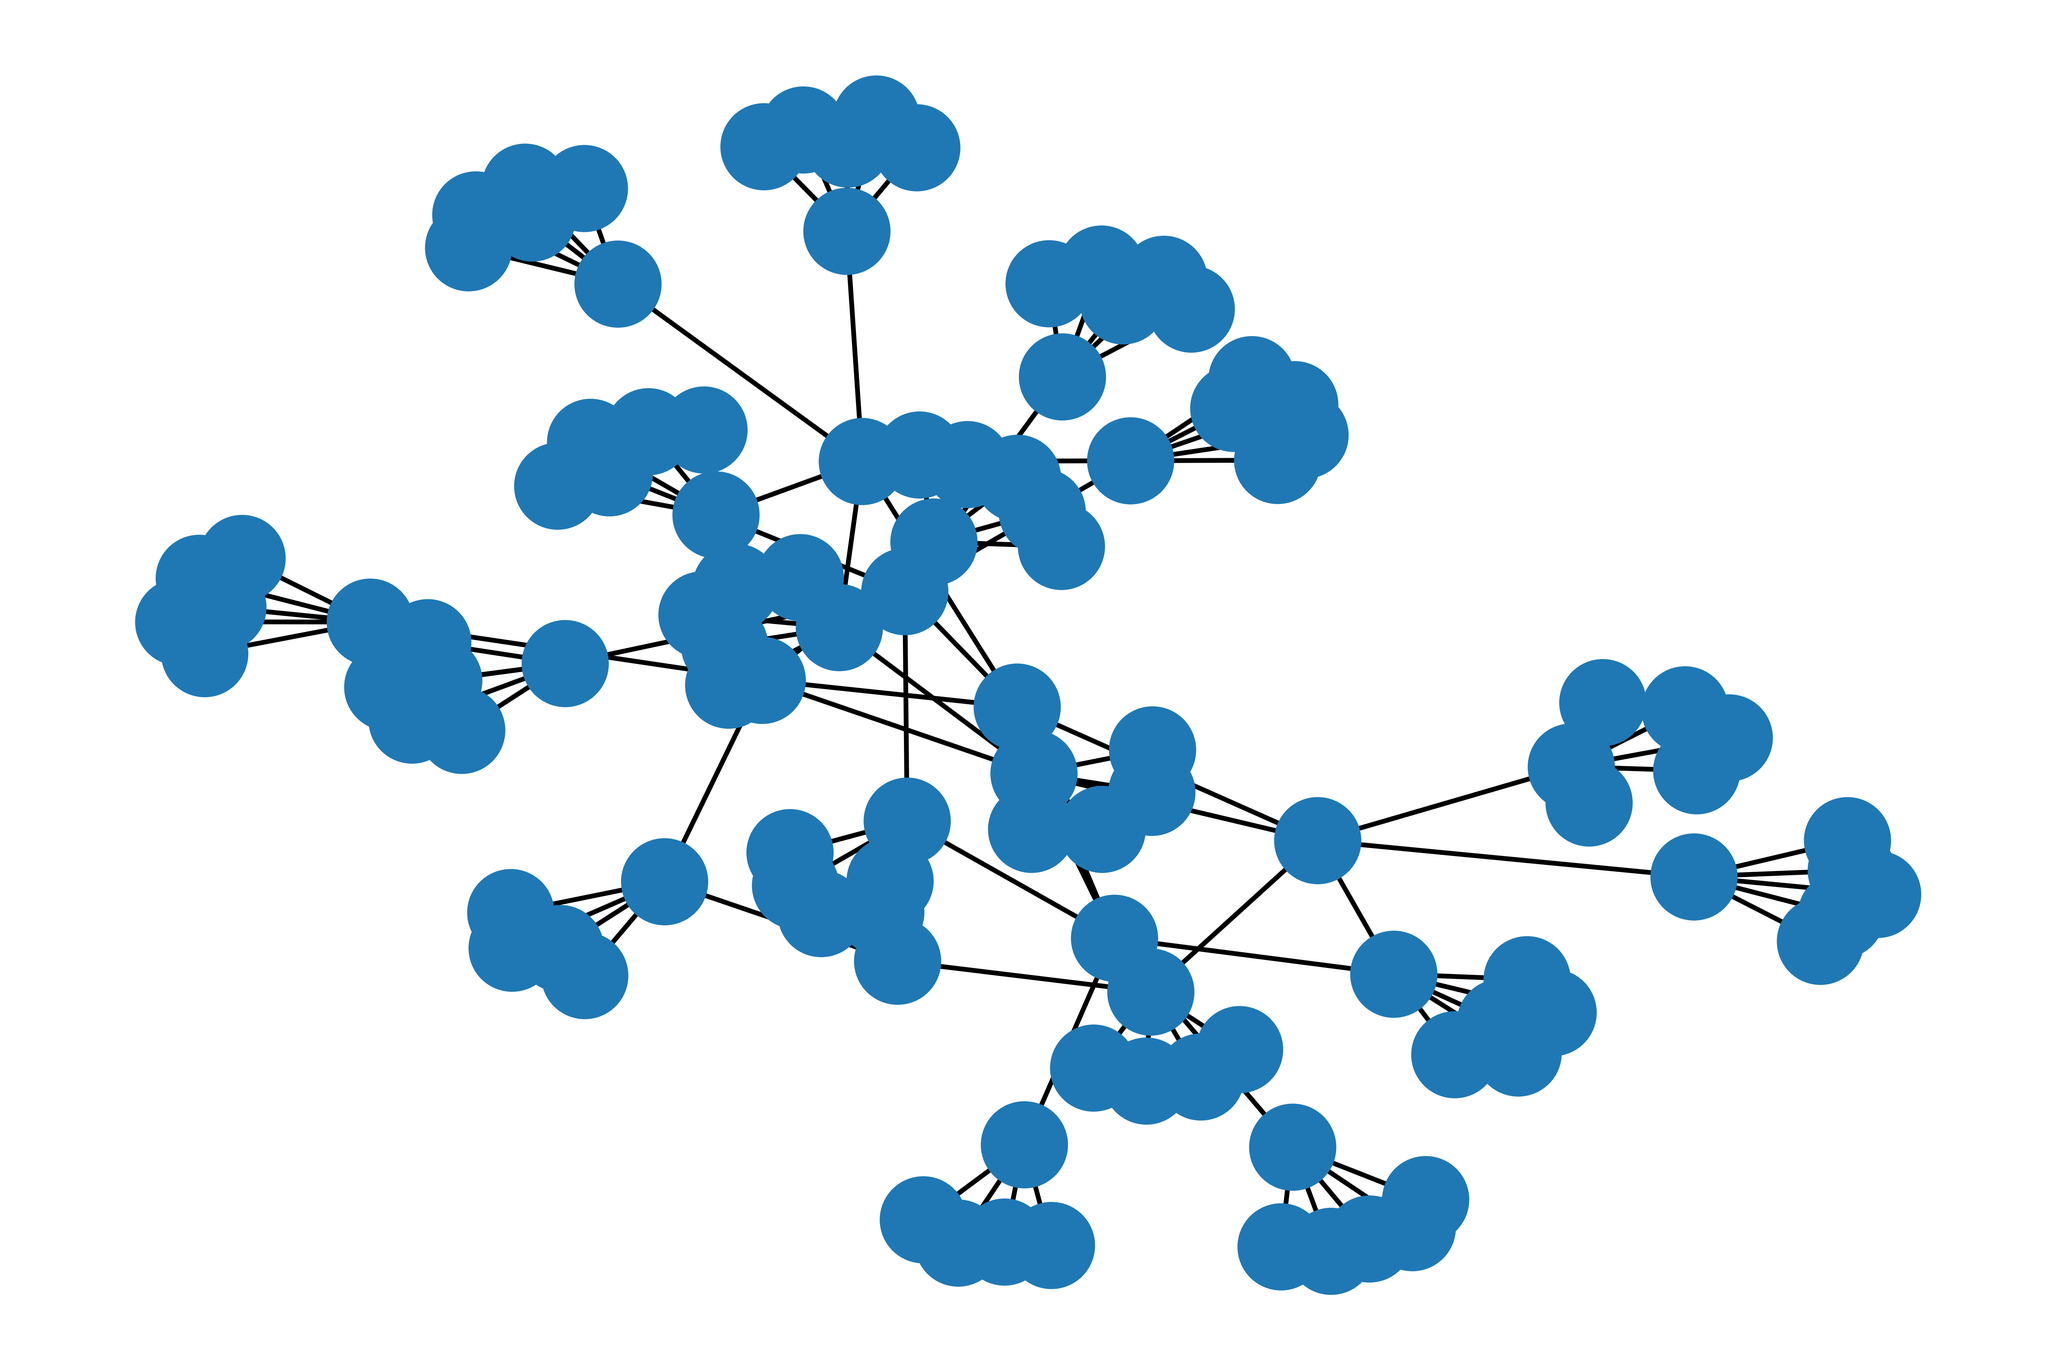
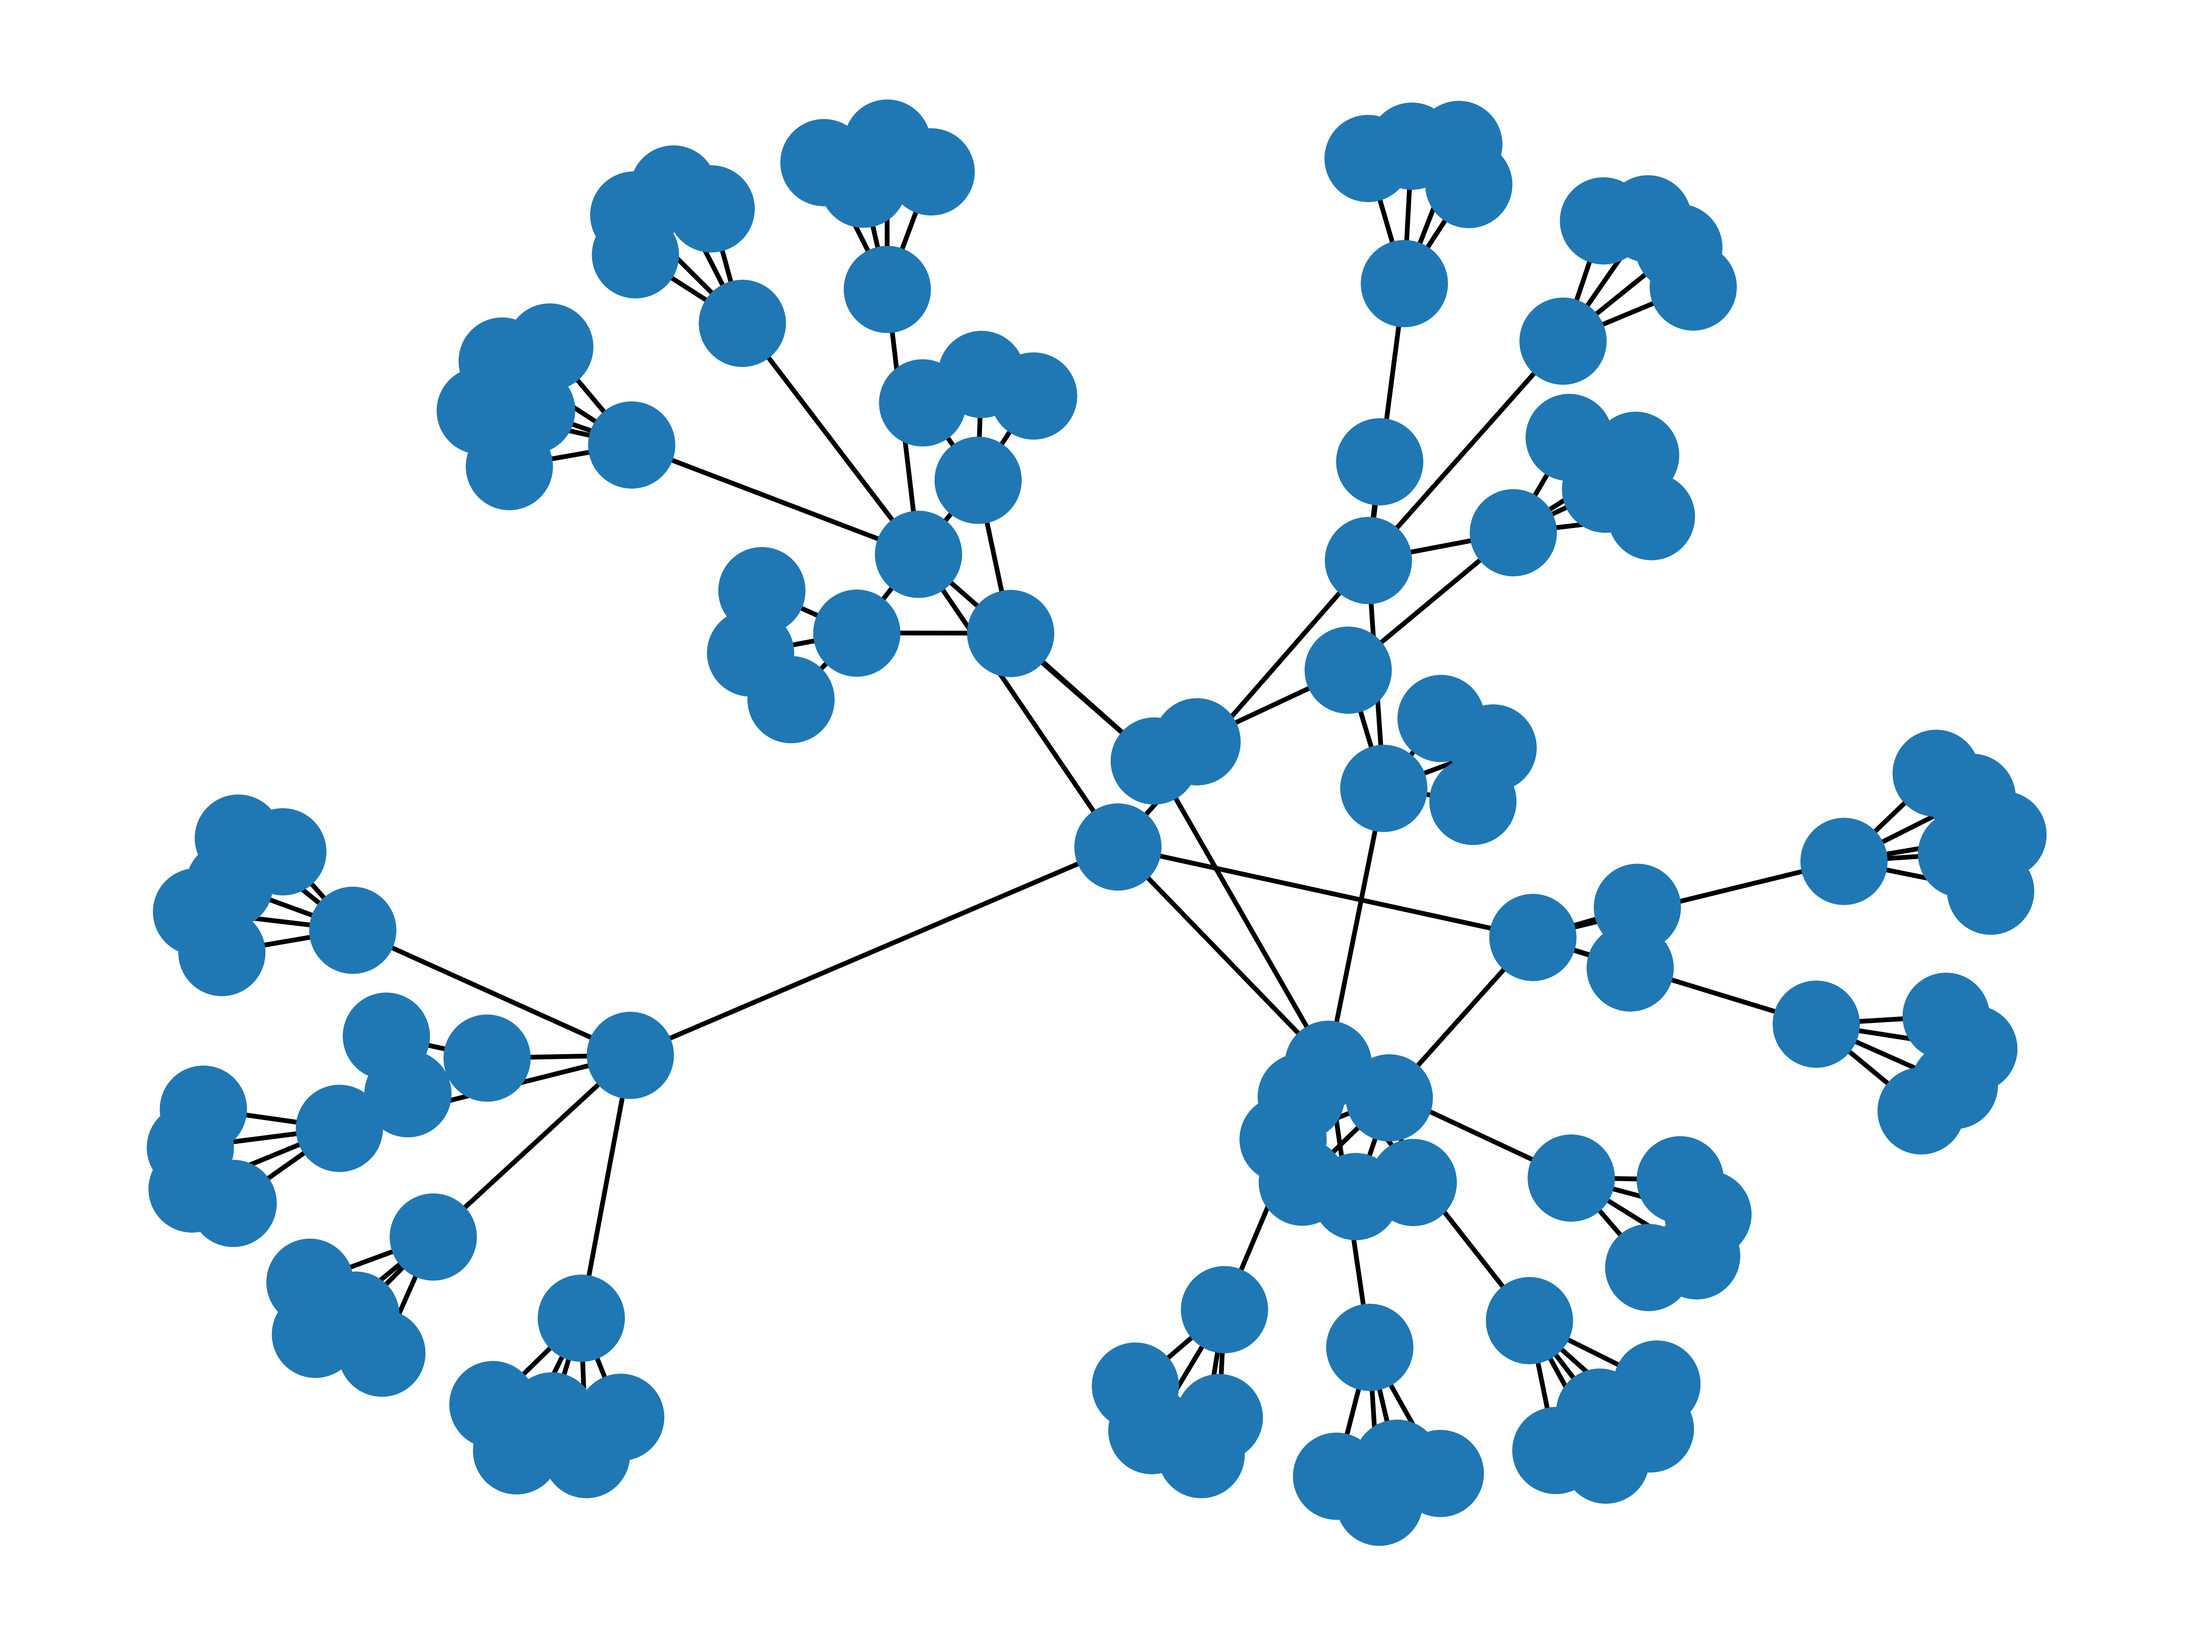
Moved code into a python file for submission, updated the graph. Fixed bug with finding reciprocals

Changed region(s): [[0.0623, 0.0312, 0.935, 0.9688], [0.8727, 0.6875, 0.9038, 0.7188]]

diff --git a/notebooks/assignment2.py b/notebooks/assignment2.py
@@ -1,0 +1,156 @@
+from audioop import avg
+import twitter
+import cookbook as cb
+import networkx as nx
+import matplotlib.pyplot as plt
+
+def make_twitter():
+  CONSUMER_KEY = 'fjRSNYpRexhGGEBRZ6wDtR46W' #API key
+  CONSUMER_SECRET = 'TsN5f7qN6SHUFliBptqqu4FFh3YLx6tisldkvFx5C065HiwaoE'#secret api key
+  OAUTH_TOKEN = '804135069988306947-WoNcUYrqIJsfcdKegraukBv3oF4hsKA' #OAUTH1 token
+  OAUTH_TOKEN_SECRET = 'x3O77abe4vDaQ40ad8h5SforRGoLY7G9kBjOiRuTBrnEj' #OAUTH1 secret token
+
+  username = "edmundyu1001"
+
+  """
+  Connection to twitter API, used in cell 1 of the twitter cookbook, added my credentials and username here
+  """
+  auth = twitter.oauth.OAuth(OAUTH_TOKEN, OAUTH_TOKEN_SECRET, CONSUMER_KEY, CONSUMER_SECRET)
+
+  twitter_api = twitter.Twitter(auth=auth)
+  return twitter_api
+
+def crawl(twitter_api, username):
+  """
+  This function finds the five most popular reciprocal friends of the user.
+  Takes list of friend IDS and follower IDS
+  Uses set notation from slides to get the reciprocal friends, then convert to a list
+  Ranks the reciprocal friends based on number of followers and returns list of 5 reciprocal friends with the most followers.
+  All functions called using cb.foobar are from the cookbook which is imported as cb
+  """
+
+  def find_five_pop_reciprocals(friends_ids, followers_ids):
+      reciprocal_friends = set(friends_ids) & set(followers_ids)
+      l_recip = list(reciprocal_friends)
+
+      first_100 = l_recip[:100]
+
+      followers_with_count = []
+
+      i = 0
+      five_most_popular = []
+      while i < len(l_recip):
+          friend_batch = l_recip[i:i+100]
+          print("friend_batch: ", len(friend_batch))
+          response = cb.get_user_profile(twitter_api, user_ids=friend_batch)
+          for r in response:
+              followers_with_count.append((response[r]["id"],response[r]["followers_count"]))
+          i += 100
+      #sort by usercount and do so in decending order
+      followers_with_count.sort(key=lambda x: x[1],reverse=True)
+
+      #grab only the five first followers
+      top_five = followers_with_count[:5]
+      print("top five: ", top_five)
+      #turn into a list for usability
+      fmp_user_ids = [i[0] for i in top_five]
+
+      return fmp_user_ids
+
+  #Creating graph using networkx, this will be the social media graph of the reciprocal friends
+  G = nx.Graph()
+  ids = [165035772]
+
+  key = 165035772
+
+  G.add_nodes_from(ids)
+
+  """
+  Grabbing the followers and friends of the initial user
+  """
+  jfk = cb.make_twitter_request(twitter_api.followers.ids, screen_name=username, count = 5000)
+  iop = cb.make_twitter_request(twitter_api.friends.ids, screen_name=username, count=5000)
+
+  followers = jfk["ids"]
+  friends = iop["ids"]
+
+  # find the 5 most popular reciprocals of the user
+  top_five_recip = find_five_pop_reciprocals(friends, followers)
+
+  # print("top five recip: ", top_five_recip)
+
+
+  # ad the top five reciprocals to the ids list, going to do DFS on those until we have 100 ids
+  ids += top_five_recip
+
+  next_queue = top_five_recip
+
+  #adding the top 5 reciprocal friends as nodes to the graph
+  G.add_nodes_from(top_five_recip)
+  #make edges between the nodes
+  edges = map(lambda e: (key, e), top_five_recip)
+  G.add_edges_from(edges)
+
+
+
+
+  depth = 1
+  max_depth = 5
+  """
+  This crawler is largley derived from the slides, with modifications to fit the parameters of the assignment.
+  Crawls until the max depth has been reached, i.e the distance 5 reciprocal friends, or until the graph contains 100 nodes
+  """
+  while depth < max_depth and len(ids) < 100:
+    depth += 1
+    (queue, next_queue) = (next_queue,[])
+
+    for id in queue:
+      response_a = cb.make_twitter_request(twitter_api.followers.ids, user_id=id, count = 5000) 
+      response_b = cb.make_twitter_request(twitter_api.friends.ids, user_id=id, count=5000)
+      if response_a is not None and response_b is not None:
+        followers = response_a["ids"]
+        friends = response_b["ids"]
+    
+        #getting the top 5 reciprocal friends
+        top_five_recip = find_five_pop_reciprocals(friends, followers)
+ 
+
+        # building the social network as the crawler works
+        G.add_nodes_from(top_five_recip)
+
+        #at every iteration, the nodes will be added as will the edges
+        edges = map(lambda e: (id, e), top_five_recip)
+        G.add_edges_from(edges)
+
+        #checking to make sure top_five_recip is not empty / None type
+        if top_five_recip:
+          print("Got followers for {0}: {1}".format(id,top_five_recip))
+          for i in top_five_recip:
+            if(i not in next_queue and i not in ids): 
+              next_queue.append(i)
+        else:
+          print(str(id) + "is protected")
+
+      ids += next_queue
+
+  #sanity check
+  print(ids)
+
+  #calculating the diameter of the graph after the crawler has finished
+  diameter = nx.diameter(G)
+  print("Diameter of graph: ", diameter)
+  #calculate average length of shortest path between nodes in the graph
+  avg_length = nx.average_shortest_path_length(G)
+  print("Average length: ", avg_length)
+
+  #Drawing the graph using networkx
+  nx.draw(G)
+  plt.savefig("mygraph.png", dpi=1000)
+  plt.show()
+
+if __name__ == "__main__":
+
+  username = "edmundyu1001"
+
+  twitter_api = make_twitter()
+  crawl(twitter_api, username)
